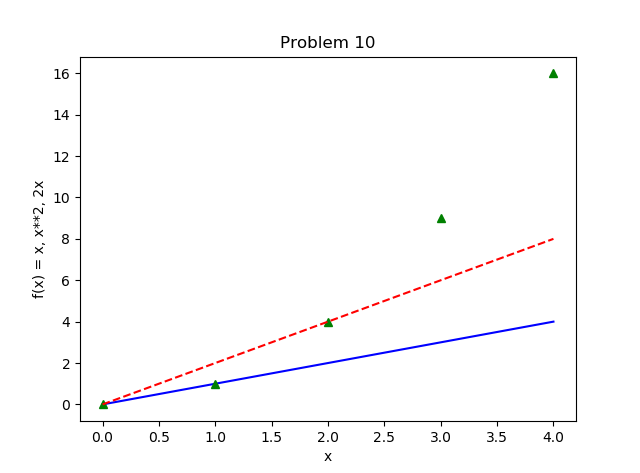
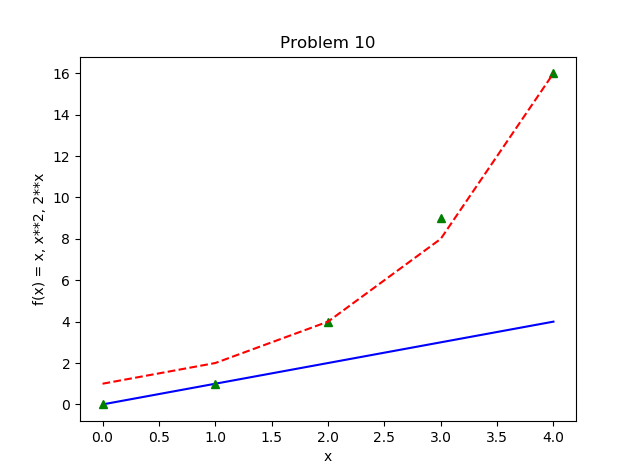
corrected plot 2x -> 2**x

diff --git a/solution-10.py b/solution-10.py
@@ -10,12 +10,12 @@ import matplotlib.pyplot as plot
 
 x = np.array([0,1,2,3,4])   # make an array for the x-axis
 plot.xlabel('x')   # label the x-axis, adapted from https://matplotlib.org/users/pyplot_tutorial.html
-plot.ylabel('f(x) = x, x**2, 2x')  # label the y-axis adapted from https://matplotlib.org/users/pyplot_tutorial.html
+plot.ylabel('f(x) = x, x**2, 2**x')  # label the y-axis adapted from https://matplotlib.org/users/pyplot_tutorial.html
 plot.title('Problem 10')   # Give title to plots, adapted from https://matplotlib.org/users/pyplot_tutorial.html
 
 xsquared = x**2   # squares the x-axis range for f(x)=x**2
 
-twox = x*2  # multiplies the x-axis range by two
+twotothex = 2**x  # multiplies the x-axis range by two
 
-plot.plot(x,x,'b-',x,xsquared,'g^',x,twox,'r--') # plot the 3 functions with blue line, green triangle and red dashes
+plot.plot(x,x,'b-',x,xsquared,'g^',x,twotothex,'r--') # plot the 3 functions with blue line, green triangle and red dashes
 plot.show() # show the plot
